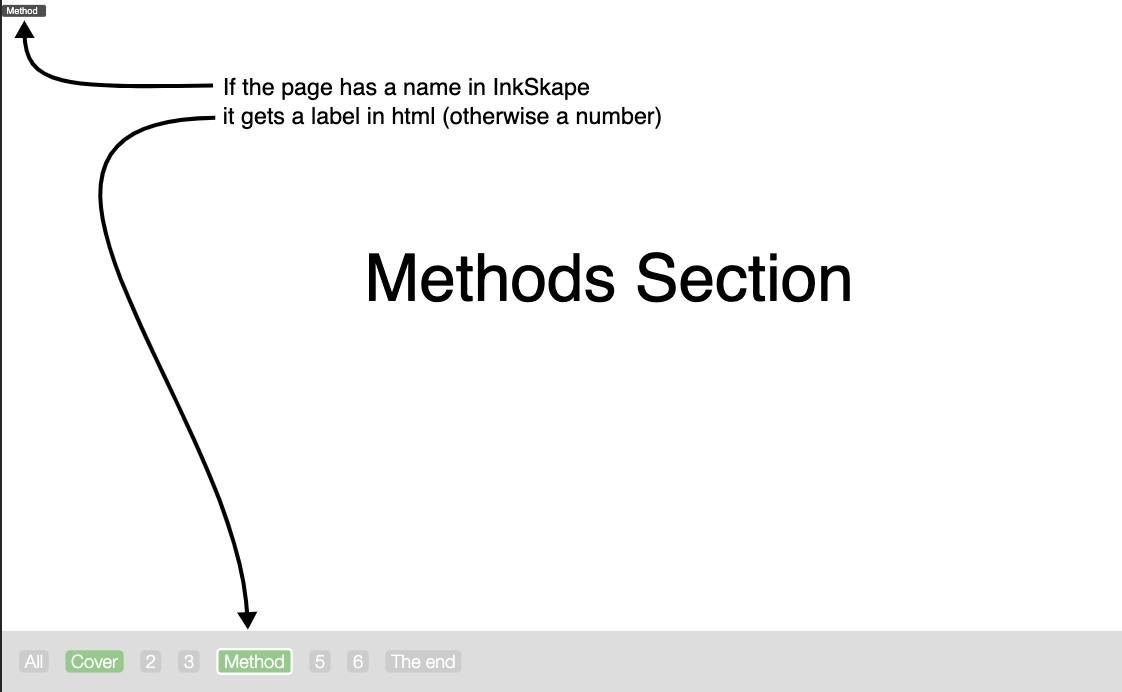
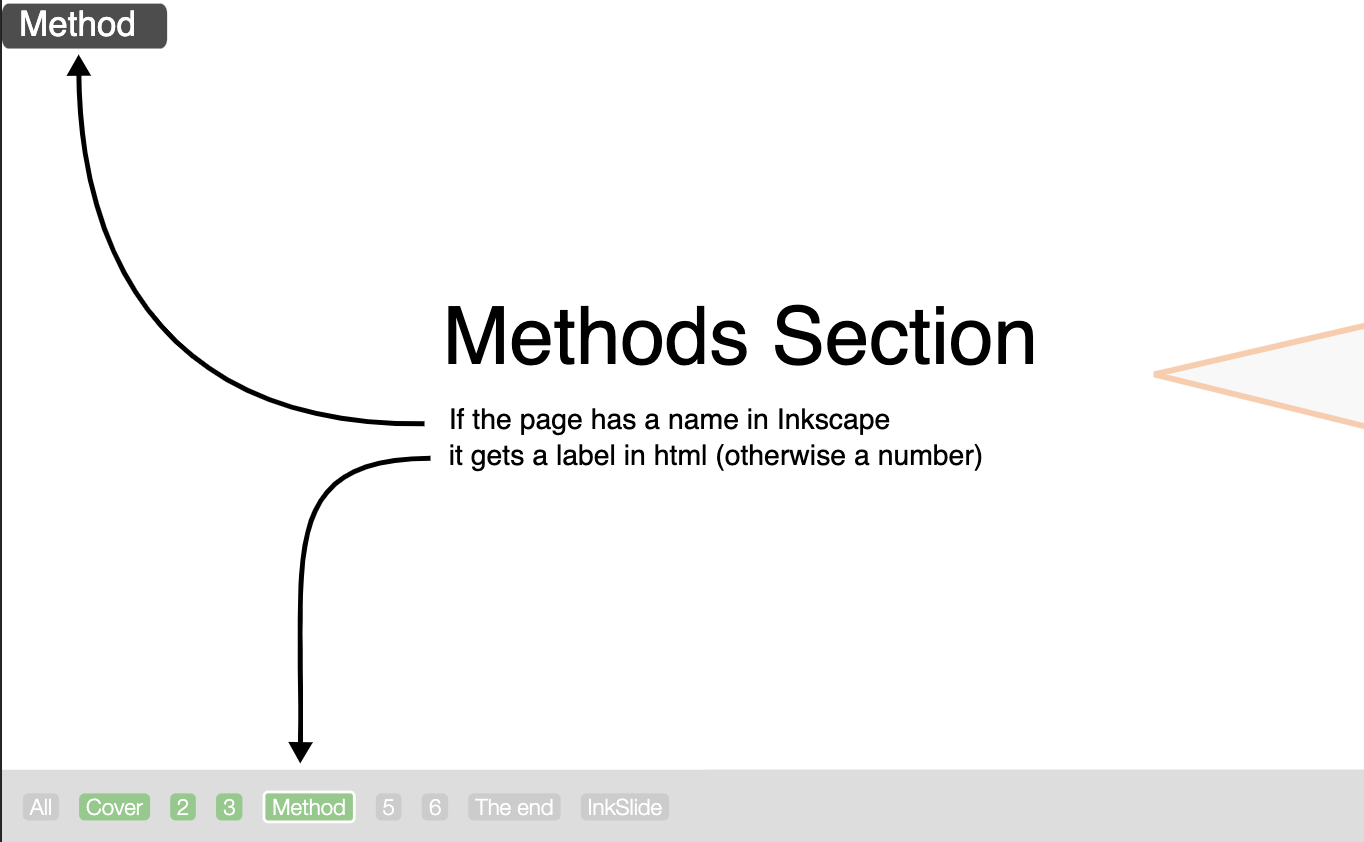
better illustrations

diff --git a/README.md b/README.md
@@ -6,7 +6,7 @@ Part of my Zero-Microsoft by 2030 pledge.
 The latest release of Inkscape includes pages. This opens the door to using Inkscape to create slides for presentations.
 
 
-![Turn svg pages into slides](img/cover.png)
+![Turn svg pages into slides](img/InkSlide.png)
 
 This repository contains two key files:
 
@@ -15,20 +15,21 @@ This repository contains two key files:
 
 Requirements
 ------------
-To present the slides in a browser, they have be located in a folder that can serve the page. On my Mac, for example, the svg content is not accessible if `index.html` is served as a file (security I guess). Try the `Sites` folder, or you may have to do some configuring of your environment (let me know if that is painful and I can include some steps here).
+Both files should be placed in a folder that can be served as a localhost webpage. Opening `index.html` as a file will not give access to the content of the svg file (for security reasons).
+On a Mac, try the `Sites` folder. You may have to configure the folder (let me know if that is painful and I can include some steps here).
 
 Editing the svg
 ---------------
 
-Use Inkscape (v 1.2+) to edit `slides.svg`.
+Use Inkscape (v1.2+) to edit `slides.svg`.
 
 **SVG id**: if you create a new file, make sure the `id` for the svg element is set to `svgSlides`. You can do this directly in the XML editor at the very top (`<svg:svg id="svgSlides">`).
 
 **Page order**: Inkscape has a feature to reorder pages, but that is rather clunky. InkSlide therefore reorders them in the order they appear in the Inkscape workspace. Note that if you export your slides as pdf, they will be in the Inkscape order (I hope Inkscape will add a feature 'order pages by position' at some point).
 
-**Animation**: Elements can be shown and hidden on slides. Add a `class` element and give it the value starting with `show1`. Class names have to be sequential (1-10). These will appear after n advances on the slide. Elements with `hide1` (or any number 1-10), disappear that that point. One element can have multiple classes, such as `show2 hide3 show4` to emerge, disappear and come back.
+**Animation**: Elements can be shown and hidden on slides. Add a `class` to any element (or group) and set the value to `show1`. Class names have to be sequential (show1..10). These will appear after n advances on the slide. Elements with `hide1` (or any number 1-10), disappear at that point. One element can have multiple classes, such as `class = 'show2 hide3 show4'` to emerge, disappear and come back.
 
-**Navigation**: At the bottom of the slides is a strip with slide names (if the Inscape page was given a name) or the page number. These highlight which slides have been visited (green) and which slide is currently shown (white border). Click on these to jump directly to any slide.
+**Navigation**: At the bottom of the slides is a strip with slide numbers names. The page name is shown if specified in Inkscape. Green icons indicate that this slide has been visited. The current slide has a white border. Click on any slide indicator to jump directly to that slide.
 
 ![Pages with a name show up in the navigation bar. Others are numbered](img/page_name.png)
 
